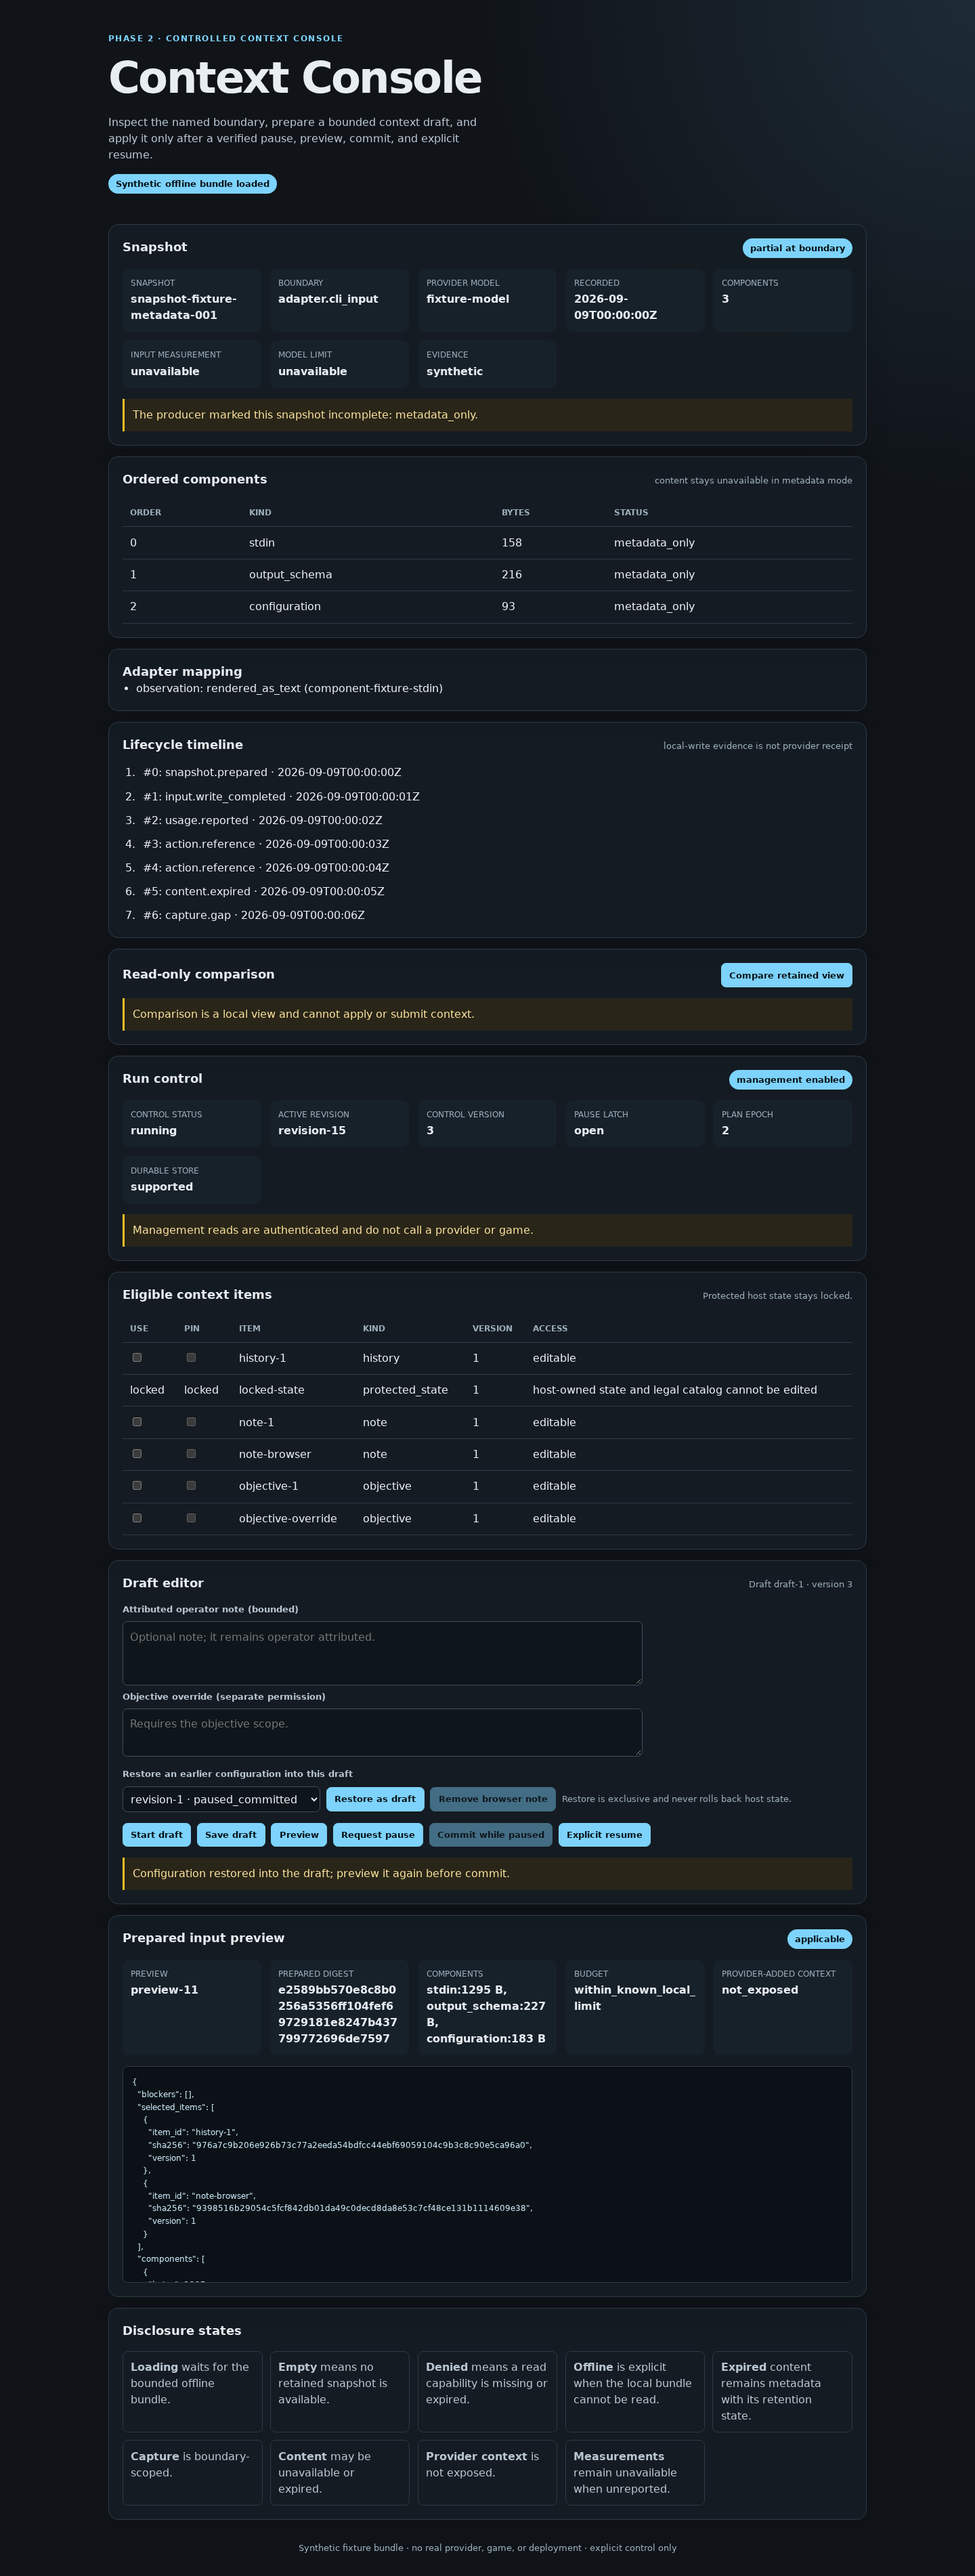
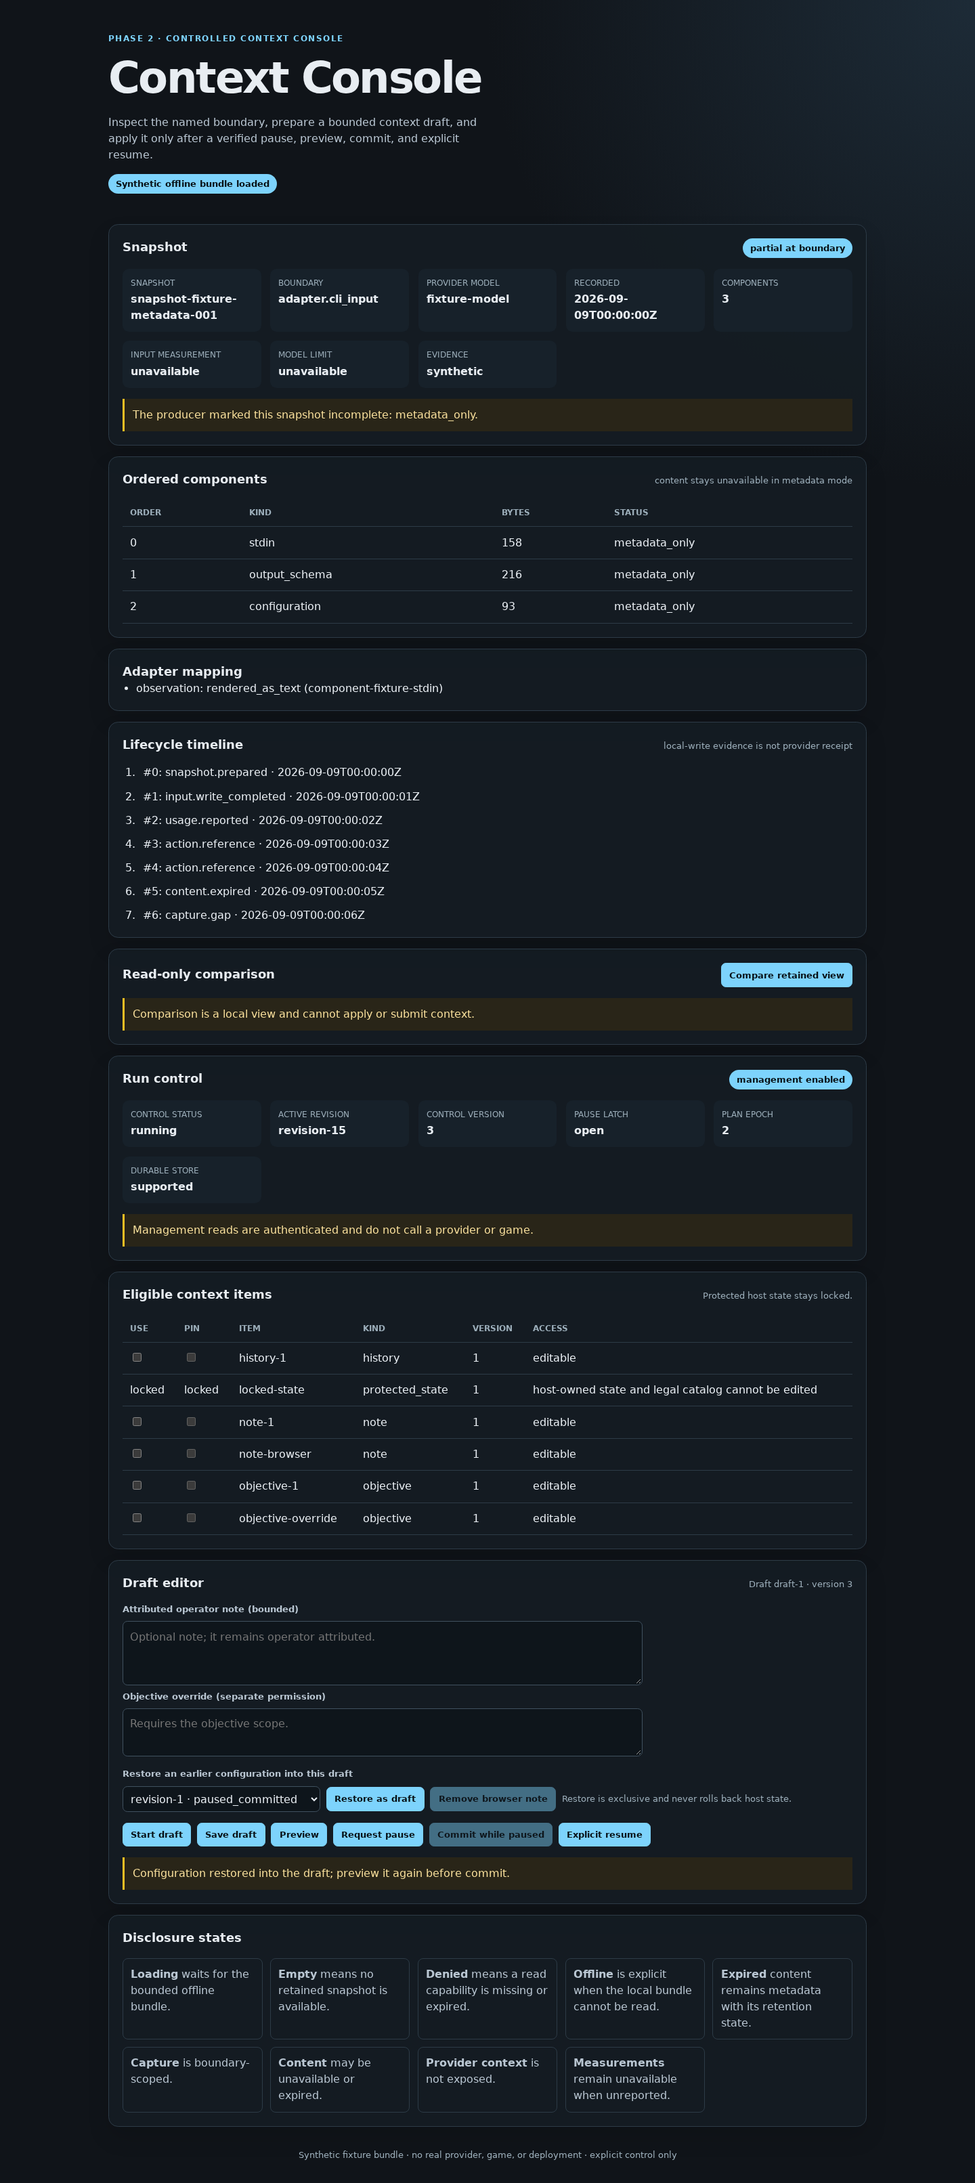
Expand browser safety evidence

diff --git a/docs/evidence/phase2-completion-report-20260910.md b/docs/evidence/phase2-completion-report-20260910.md
@@ -2,7 +2,7 @@
 
 This is the review record for the Phase 2 draft branches. Phase 1 was merged first, then the existing target repositories were extended; no Phase 2 branch was merged, released, deployed, or used against a live provider/game.
 
-Target: [ascension-context-console PR #3](https://github.com/AI-Ascension/ascension-context-console/pull/3), implementation source `f1f8ac0d72b8d451e5d3b81b18233eb73a9675b6`, evidence handoff `61050aa3437ea5f9441bb31a5dd42b200038e898`. Companion: [sts2-harness PR #60](https://github.com/AI-Ascension/sts2-harness/pull/60) at `499f29018dbb4d7fe4bd80159bafb15781a2b90d`. The target and companion heads are cross-linked in both PR bodies. Contract source pins and SHA-256 values are in `contracts/context-control/README.md`.
+Target: [ascension-context-console PR #3](https://github.com/AI-Ascension/ascension-context-console/pull/3), implementation source `1394348c8b315e5a6e1a1fe6dffc3ef4a6273946`, evidence handoff `61050aa3437ea5f9441bb31a5dd42b200038e898`. Companion: [sts2-harness PR #60](https://github.com/AI-Ascension/sts2-harness/pull/60) at `499f29018dbb4d7fe4bd80159bafb15781a2b90d`. The target and companion heads are cross-linked in both PR bodies. Contract source pins and SHA-256 values are in `contracts/context-control/README.md`.
 
 The implementation is disabled outside the synthetic management fixture. The target control plane
 never calls a provider or game; its integrated fixture now starts from an opt-in encrypted SQLite
@@ -29,12 +29,13 @@ the 16 KiB input bound. The CLI emits the documented machine schema and makes ze
 or external requests.
 
 The checked-in `docs/evidence/phase2-failure-matrix-20260910.json` enumerates all 80 package
-failure rows. Thirty-three rows have executable evidence: the browser cases (`P2-F001`,
-`P2-F003`, `P2-F005`, `P2-F011`, `P2-F017`, `P2-F022`, and `P2-F031`) plus named Rust
+failure rows. Thirty-eight rows have executable evidence: the browser cases (`P2-F001`,
+`P2-F003`, `P2-F004`, `P2-F005`, `P2-F007`, `P2-F010`, `P2-F011`, `P2-F017`,
+`P2-F022`, `P2-F031`, `P2-F073`, and `P2-F075`) plus named Rust
 regressions for CAS, protected identity, restore, authorization, preview freshness/expiry,
 idempotency, plan fencing, stop dominance, safe deactivation, and the approved-resume guard, plus
 target durable-store regressions for transaction rollback, wrong-key/tamper rejection, additive
-schema repair with Phase 1 byte retention, and legacy active-state refusal. The other 47 remain
+schema repair with Phase 1 byte retention, and legacy active-state refusal. The other 42 remain
 explicitly marked `required_not_executed` because they require crash windows not injected here,
 live provider/game effects, native ownership controls, or other evidence outside this fixture.
 
@@ -127,7 +128,7 @@ paths.
 The package’s bounded reference model additionally
 checked 12,389 transitions and eight targeted scenarios across 1,802 states; it does not validate
 Rust storage, authentication, provider behavior, game effects, or native topology. The package
-failure matrix has 80 rows. The row-level ledger records 33 executed cases and 47
+failure matrix has 80 rows. The row-level ledger records 38 executed cases and 42
 `required_not_executed` rows; scenarios requiring production storage, live providers, native
 orchestration, or unavailable fault injection remain outside the evidence boundary.
 
